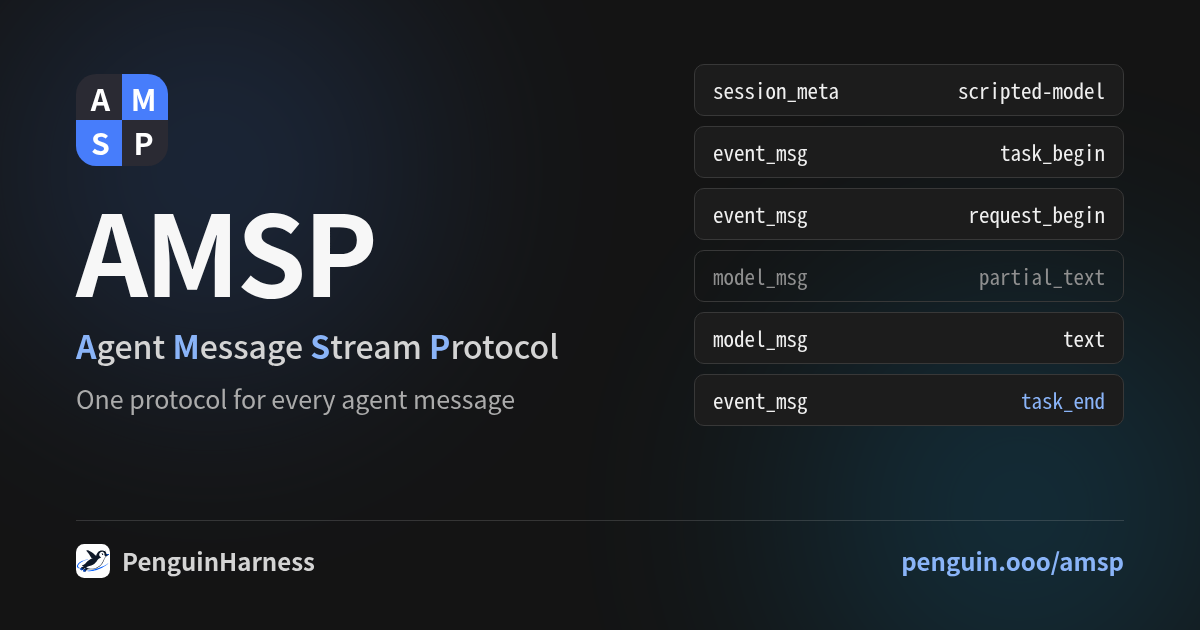
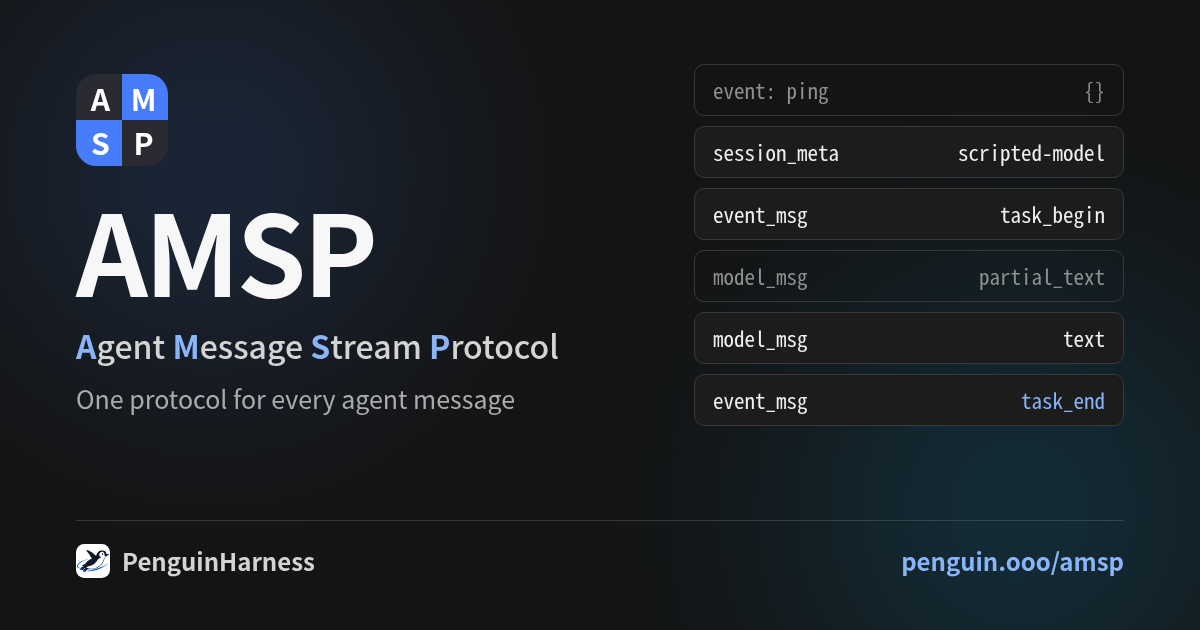
fix(landing): the AMSP stream list keeps its preview wide; streams open with ping
- The stream pane's kind column fits every kind but the longest; partial_tool_call_output and the
  abort path run on with their preview and wrap under the preview column, so a row takes two
  lines at most and most take one.
- The protocol's final rule: a run stream opens with event: ping, a new Session is named by its
  session_meta (the stream's first record), a continued one by the session_id the caller sent.
  The demo, the response excerpt, the vocabulary's ping and session_meta rows, the curl note and
  the share card follow it.

diff --git a/packages/landing/src/components/stream-player.tsx b/packages/landing/src/components/stream-player.tsx
@@ -2,8 +2,8 @@
  * The AMSP player: a scripted run replayed step by step, the way mmsp.penguin.ooo replays a model
  * call. Tabs pick the run (a Session's first request, a follow-up that continues it, a follow-up the
  * caller interrupts); the input block shows the call that starts it; the left pane lists the stream
- * as it arrives — the records (the ones the Trace stores on a faint ground), the caller's abort
- * beside the stream, `[DONE]`; the right pane is the run assembled from the records, under the
+ * as it arrives — the opening `ping`, the records (the ones the Trace stores on a faint ground),
+ * the caller's abort beside the stream, `[DONE]`; the right pane is the run assembled from the records, under the
  * agent the client names; the strip under both reads the run's outcome from them once `[DONE]`
  * arrives.
  *
@@ -16,7 +16,7 @@
  * replay. Sized so the whole player fits one screen beside the hero's copy at 1280 × 800.
  */
 import { useEffect, useId, useLayoutEffect, useMemo, useRef, useState } from "react";
-import type { KeyboardEvent, ReactNode } from "react";
+import type { CSSProperties, KeyboardEvent, ReactNode } from "react";
 import { highlightSiteCode, SiteCodeBlock, SitePill } from "@prismshadow/penguin-ui/site";
 import { S } from "../lib/strings";
 import { SCENARIOS } from "../lib/amsp-demo";
@@ -231,6 +231,16 @@ export function StreamPlayer() {
 }
 
 /**
+ * The kind column fits every kind but the longest (`partial_tool_call_output`, and the caller's
+ * abort path); those run on into the preview's column, their preview following on the same line and
+ * wrapping under the preview column. So the preview keeps the rest of the width and a row takes two
+ * lines at most.
+ */
+const KIND_CH = "partial_tool_call".length;
+/** The kind column and the gap after it: how far a long kind's continuation lines hang. */
+const HANG = "calc(var(--kind) + 0.5rem)";
+
+/**
  * One row of the stream: a record (on a faint ground when the Trace stores it), a control frame, the
  * caller's request beside the stream, or the closing `[DONE]` under a rule.
  */
@@ -242,11 +252,13 @@ function StreamRow({ line }: { line: StepLine }) {
       : line.stored
         ? "bg-white text-gray-900 dark:bg-gray-950 dark:text-gray-100"
         : "text-gray-500 dark:text-gray-400";
+  const long = line.name.length > KIND_CH;
   return (
     <li
-      className={`grid grid-cols-[24ch_minmax(0,1fr)] gap-x-2 rounded-sm px-2 sm:grid-cols-[10ch_24ch_minmax(0,1fr)] ${tone}`}
+      style={{ "--kind": `${KIND_CH}ch` } as CSSProperties}
+      className={`grid grid-cols-[var(--kind)_minmax(0,1fr)] gap-x-2 rounded-sm px-2 sm:grid-cols-[9ch_var(--kind)_minmax(0,1fr)] ${tone}`}
     >
-      {/* A record with no payload type (session_meta) lets its envelope run into the name's column. */}
+      {/* A record with no payload type (session_meta) lets its envelope run into the kind's column. */}
       <span
         className={`hidden text-[11px] text-gray-400 sm:block dark:text-gray-500 ${
           line.name ? "" : "sm:col-span-2"
@@ -254,8 +266,16 @@ function StreamRow({ line }: { line: StepLine }) {
       >
         {line.head}
       </span>
-      {line.name ? <span>{line.name}</span> : <span className="sm:hidden">{line.head}</span>}
-      <span className="[overflow-wrap:anywhere]">
+      {line.name ? (
+        !long && <span>{line.name}</span>
+      ) : (
+        <span className="sm:hidden">{line.head}</span>
+      )}
+      <span
+        className={`[overflow-wrap:anywhere] ${long ? "col-span-2" : ""}`}
+        style={long ? { paddingLeft: HANG, textIndent: `calc(-1 * ${HANG})` } : undefined}
+      >
+        {long && <>{line.name} </>}
         {line.kind === "request" ? (
           <span className="font-sans">{P.besideStream}</span>
         ) : (

diff --git a/packages/landing/test/amsp-demo.test.ts b/packages/landing/test/amsp-demo.test.ts
@@ -3,10 +3,10 @@
  * is what stops an edit (or the spec moving under them) from putting a stream on the page that no
  * server would send.
  *
- * - Given any run, it ends with `[DONE]` and its clock never runs backwards.
- * - Given the Session's first message, the stream opens with `session_meta` naming the new Session,
- *   then `task_begin`, then the echoed input; given a later message, it opens with `task_begin` and
- *   no `session_meta` comes.
+ * - Given any run, it opens with `ping`, ends with `[DONE]`, and its clock never runs backwards.
+ * - Given the Session's first message, its first record is `session_meta` naming the new Session,
+ *   then `task_begin`, then the echoed input; given a later message, its first record is
+ *   `task_begin` and no `session_meta` comes.
  * - Given any run, `task_begin` and `task_end` enclose its records and each `request_begin` is
  *   closed by a `request_end` before the next one opens.
  * - Given a streamed message, its fragments go start → delta* → stop before its complete record,
@@ -42,18 +42,19 @@ describe.each(SCENARIOS.map((scenario) => [scenario.id, scenario] as const))(
     const kinds = sequence(steps);
     const records = recordsOf(steps);
 
-    it("ends with [DONE], and its clock never runs backwards", () => {
+    it("opens with ping, ends with [DONE], and its clock never runs backwards", () => {
+      expect(kinds[0]).toBe("event: ping");
       expect(kinds.at(-1)).toBe("[DONE]");
       const times = records.map((record) => Date.parse(record.timestamp));
       expect(times.every((time, i) => i === 0 || time >= times[i - 1]!)).toBe(true);
     });
 
-    it("opens with session_meta only on the Session's first message, then task_begin and the input", () => {
+    it("starts at session_meta only on the Session's first message, then task_begin and the input", () => {
       if (scenario.continues) {
         expect(kinds).not.toContain("session_meta");
-        expect(kinds.slice(0, 2)).toEqual(["task_begin", "text"]);
+        expect(kinds.slice(1, 3)).toEqual(["task_begin", "text"]);
       } else {
-        expect(kinds.slice(0, 3)).toEqual(["session_meta", "task_begin", "text"]);
+        expect(kinds.slice(1, 4)).toEqual(["session_meta", "task_begin", "text"]);
         expect(records[0]).toMatchObject({
           payload: { session_id: expect.stringMatching(/^session-/) },
         });

diff --git a/packages/landing/src/lib/amsp-demo.ts b/packages/landing/src/lib/amsp-demo.ts
@@ -3,9 +3,9 @@
  * model was called). The records, their order and their fields follow PRFC-0021 and the engine as
  * it emits them:
  *
- * - on the Session's first message the stream opens with `session_meta`, which carries the new
- *   Session's id, then `task_begin`, then the echoed input; later messages, whose Session id the
- *   caller passed, open with `task_begin`;
+ * - every stream opens with the `ping` control frame; on the Session's first message the first
+ *   record is `session_meta`, whose `session_id` names the new Session, then `task_begin`, then the
+ *   echoed input; a later message, on the `session_id` its request sent, starts at `task_begin`;
  * - a Request pair brackets the model's output; a tool runs while its Request is still open and its
  *   output completes after `request_end`;
  * - fragments stream `start → delta → stop`, then the complete message follows;
@@ -120,6 +120,9 @@ const DATE_ARGUMENTS = '{"cmd":"date"}';
 const REQUEST_1 = counts(0, 2816, 58, 3004);
 const REQUEST_2 = counts(2816, 162, 31, 3021);
 const REQUEST_3 = counts(2978, 52, 18, 3057);
+
+/** A run stream's first line: the heartbeat, sent at once. */
+const ping: Script = [0, { control: { kind: "ping" } }];
 
 /** On a Session's first message: the context it opened. */
 const sessionMeta = (sessionId: string): Script => [
@@ -286,6 +289,7 @@ const outputRest = (clock: string): Script[] => [
  * clock in a second Request and answers.
  */
 const FIRST_RUN = timed("2026-10-21T09:41:07.000Z", EPOCH, [
+  ping,
   sessionMeta(SESSION),
   ...taskOpening("What time is it now?"),
   [8, record({ type: "request_begin", thinking_level: "medium" })],
@@ -318,6 +322,7 @@ const CONTINUE_RUN = timed(
   "2026-10-21T09:41:15.000Z",
   EPOCH,
   [
+    ping,
     ...taskOpening("Now say it in French."),
     [8, record({ type: "request_begin", thinking_level: "medium" })],
     ...textSteps(574, ["Il est 9 h 41 UTC,", " le mercredi 21 octobre 2026."]),
@@ -350,6 +355,7 @@ const INTERRUPT_RUN = timed(
   "2026-10-21T09:41:30.000Z",
   EPOCH,
   [
+    ping,
     ...taskOpening("Explain clocks in depth."),
     [8, record({ type: "request_begin", thinking_level: "medium" })],
     ...replyPieces(600, HISTORY),

diff --git a/packages/landing/src/lib/strings.ts b/packages/landing/src/lib/strings.ts
@@ -511,7 +511,7 @@ penguin run --message "分析 data.csv，输出季度销售额"`,
       live: "仅实时",
       firstMessage: "仅随首条消息上流",
       meaning: {
-        meta: "一个模型上下文开启：模型、系统提示词、Workspace 和来源。Session 的首条消息以它开启运行流，其中的 session_id 供之后的请求延续同一段上下文；之后的消息不再重复它。",
+        meta: "一个模型上下文开启：模型、系统提示词、Workspace 和来源。在 Session 的首条消息里，它是流中的第一条记录，其 session_id 即新 Session 的 id；之后的消息不再重复它。",
         complete: "完整消息，模型看到或说出的原样内容，附带提供方的 fidelity 数据。",
         partial: "流式传输中的同一批消息：start、delta、stop，随后由完整消息取代。",
         engine:
@@ -522,7 +522,7 @@ penguin run --message "分析 data.csv，输出季度销售额"`,
         head: { frame: "帧", data: "数据", meaning: "含义" },
         meaning: {
           resync_required: "续传用的 Last-Event-ID 已被挤出缓冲：重读历史后继续读这条流。",
-          ping: "心跳，订阅后立即发送，此后每 20 秒一次。",
+          ping: "流一打开即发送，因此是运行流的第一行；此后每 20 秒一次。",
           done: "运行流的最后一行。",
         },
       },
@@ -540,7 +540,7 @@ penguin run --message "分析 data.csv，输出季度销售额"`,
       curl: {
         title: "用 curl 运行",
         response: "响应",
-        note: "响应就是这次运行本身：每条记录一个带 id 的事件，Session 的首条消息以 session_meta 开头，最后是 data: [DONE]。",
+        note: "响应就是这次运行本身：先是一个 ping，随后每条记录一个带 id 的事件，最后以 data: [DONE] 结束。Session 的首条消息里，第一条记录是 session_meta，其 session_id 即这个 Session 的 id；延续对话时把它作为 session_id 传回。",
         elided: "每条记录一个事件",
       },
       sdk: { title: "或者用 TypeScript" },

diff --git a/packages/landing/src/lib/strings-en.ts b/packages/landing/src/lib/strings-en.ts
@@ -505,7 +505,7 @@ penguin run --message "Analyze data.csv and summarize quarterly sales"`,
       live: "live only",
       firstMessage: "sent on a first message only",
       meaning: {
-        meta: "A model context opened: its model, system prompt, Workspace and source. It opens the stream of a Session's first message and carries the session_id a later request passes to continue; later messages do not repeat it.",
+        meta: "A model context opened: its model, system prompt, Workspace and source. On a Session's first message it is the stream's first record, and its session_id names the new Session; later messages do not repeat it.",
         complete:
           "Complete messages, exactly what the model saw or said, with the provider's fidelity data.",
         partial:
@@ -519,7 +519,7 @@ penguin run --message "Analyze data.csv and summarize quarterly sales"`,
         meaning: {
           resync_required:
             "The Last-Event-ID to resume from has left the buffer: read the history again, then keep reading the stream.",
-          ping: "The heartbeat, sent right after subscribing and every 20 seconds after.",
+          ping: "Sent as soon as a stream opens, so a run stream's first line, then every 20 seconds.",
           done: "A run stream's last line.",
         },
       },
@@ -535,7 +535,7 @@ penguin run --message "Analyze data.csv and summarize quarterly sales"`,
       curl: {
         title: "Run it with curl",
         response: "response",
-        note: "The answer is the run itself: one event with an id per record, session_meta first on a Session's first message, and data: [DONE] last.",
+        note: "The answer is the run itself: a ping opens it, then one event with an id per record, and data: [DONE] ends it. On a Session's first message the first record is session_meta, whose session_id names the Session; to continue, send that id as session_id.",
         elided: "one event per record",
       },
       sdk: { title: "Or from TypeScript" },

diff --git a/packages/landing/scripts/og-amsp.html b/packages/landing/scripts/og-amsp.html
@@ -183,9 +183,9 @@
             <p class="tagline">One protocol for every agent message</p>
           </div>
           <div class="stream">
+            <div class="row"><span>event: ping</span><span>{}</span></div>
             <div class="row stored"><span>session_meta</span><span>scripted-model</span></div>
             <div class="row stored"><span>event_msg</span><span>task_begin</span></div>
-            <div class="row stored"><span>event_msg</span><span>request_begin</span></div>
             <div class="row"><span>model_msg</span><span>partial_text</span></div>
             <div class="row stored"><span>model_msg</span><span>text</span></div>
             <div class="row stored"><span>event_msg</span><span class="closer">task_end</span></div>

diff --git a/packages/landing/test/amsp-replay.test.ts b/packages/landing/test/amsp-replay.test.ts
@@ -218,10 +218,9 @@ describe("the stream pane", () => {
       stored: false,
       preview: 'delta "Hi"',
     });
-    const ping: RunStep = { kind: "control", control: { kind: "ping" } };
     const besides = run("interrupt").filter((each) => each.kind !== "record");
-    expect(besides.map((each) => each.kind)).toEqual(["request", "done"]);
-    for (const frame of [ping, ...besides]) {
+    expect(besides.map((each) => each.kind)).toEqual(["control", "request", "done"]);
+    for (const frame of besides) {
       expect(stepLine(frame).stored).toBe(false);
     }
   });

diff --git a/packages/landing/src/sections/amsp/quickstart.tsx b/packages/landing/src/sections/amsp/quickstart.tsx
@@ -29,7 +29,7 @@ function Step({ index, title, children }: { index: number; title: string; childr
 
 export function AmspQuickstart() {
   const Q = S.amsp.quickstart;
-  const response = responseExcerpt(SCENARIOS[0]!.steps, 2, 3, Q.curl.elided);
+  const response = responseExcerpt(SCENARIOS[0]!.steps, 3, 3, Q.curl.elided);
   return (
     <Section id="quickstart" title={Q.title}>
       <ol className="mx-auto max-w-4xl space-y-12">

diff --git a/packages/landing/src/lib/amsp-vocabulary.ts b/packages/landing/src/lib/amsp-vocabulary.ts
@@ -17,7 +17,7 @@ export interface VocabularyRow {
   kinds: readonly string[];
   /** Stored in the Trace on disk (a durable record), or live on the stream only. */
   stored: boolean;
-  /** Sent only on a Session's first message, first on its stream; not repeated on later ones. */
+  /** Sent only on a Session's first message, as its stream's first record; not repeated later. */
   firstMessageOnly?: true;
 }
 

diff --git a/changelog/unreleased/2026-10-22-amsp-landing-page.md b/changelog/unreleased/2026-10-22-amsp-landing-page.md
@@ -12,7 +12,7 @@ penguin.ooo/amsp presents AMSP, a PenguinHarness agent's Session stream, on one 
 ## Details
 
 - **Mark.** An AMSP mark drawn as MMSP's sibling: the same four tiles, colours and letter weight, with the blue on the other diagonal. It heads the hero and the share card.
-- **Player.** Three scripted runs on one Session in tabs: the first request, a follow-up that continues it, and a follow-up the caller interrupts. The left pane lists the stream as it arrives: the records (the ones the Trace stores on a faint ground), the caller's abort request, and `[DONE]`. The right pane assembles the run: the agent and, on a first request, the model; the messages under their Requests, with each Request's thinking level. A strip under both reads the result from the records, with the Request count, elapsed time and usage bars. Replay follows the runs' own timestamps, runs only while the player is on screen, pauses on request, and shows each run finished under reduced motion.
+- **Player.** Three scripted runs on one Session in tabs: the first request, a follow-up that continues it, and a follow-up the caller interrupts. The left pane lists the stream as it arrives: the opening `ping`, the records (the ones the Trace stores on a faint ground), the caller's abort request, and `[DONE]`. The right pane assembles the run: the agent and, on a first request, the model; the messages under their Requests, with each Request's thinking level. A strip under both reads the result from the records, with the Request count, elapsed time and usage bars. Replay follows the runs' own timestamps, runs only while the player is on screen, pauses on request, and shows each run finished under reduced motion.
 - **Sections.** A bar chart of the message structure on one time axis, longest first: the Task (`task_begin … task_end`), its Requests (`request_begin … request_end`) and their messages (`partial_*` fragments, then the complete record), drawn from the first-request run, with a tool's output completing after its `request_end`; the table of records grouped by envelope `type`, `session_meta` marked as sent on a first message only, and the control frames (`resync_required`, `ping`, `data: [DONE]`); curl and TypeScript quickstarts against `/api/amsp/v1` and `@prismshadow/amsp` (`stream()` for the records, `run()` for the result); links to the reference, AMSP records, the Agent API guide, npm and the source.
 - **One place per kind of content.** The vocabulary and the control frames are in `src/lib/amsp-vocabulary.ts`, the code samples in `src/lib/amsp-quickstart.ts`, and the scripted runs in `src/lib/amsp-demo.ts`, typed on the page's own protocol types until the SDK ships them.
 - **Site.** "AMSP" in the header between Download and Docs and in the footer's Product column. The page loads as its own chunk. Its tab title and description follow the reader's language, and its static shell carries its own title, description and share card (`public/og-amsp.png`, rendered by `node scripts/capture-og-cover.mjs amsp`), so links to it unfurl under its own name. `/amsp/` is in the sitemap.

diff --git a/changelog/unreleased/2026-10-22-amsp-landing-page.zh.md b/changelog/unreleased/2026-10-22-amsp-landing-page.zh.md
@@ -12,7 +12,7 @@ penguin.ooo/amsp 仿照 mmsp.penguin.ooo，用一个页面介绍 AMSP，即 Peng
 ## 细节
 
 - **标志。** AMSP 标志按 MMSP 的同一套构造绘制：同样的四块方格、颜色与字重，蓝色落在另一条对角线上。它出现在首屏与分享卡片上。
-- **播放器。** 三个标签页重放同一个 Session 上的三次脚本运行：首次请求、继续对话，以及调用方中途打断的一次追问。左栏按到达顺序列出流：各条记录（写入 Trace 的带浅色底）、调用方的中止请求与 `[DONE]`；右栏把运行拼装起来：Agent 与（首次请求时的）模型、归在各 Request 下的消息及该 Request 的思考等级。两栏下方的一条显示由记录读出的结果、Request 数、耗时和用量条形图。重放按运行自身的时间戳推进，只在播放器可见时播放，可以暂停；减少动态效果时直接显示完成状态。
+- **播放器。** 三个标签页重放同一个 Session 上的三次脚本运行：首次请求、继续对话，以及调用方中途打断的一次追问。左栏按到达顺序列出流：开头的 `ping`、各条记录（写入 Trace 的带浅色底）、调用方的中止请求与 `[DONE]`；右栏把运行拼装起来：Agent 与（首次请求时的）模型、归在各 Request 下的消息及该 Request 的思考等级。两栏下方的一条显示由记录读出的结果、Request 数、耗时和用量条形图。重放按运行自身的时间戳推进，只在播放器可见时播放，可以暂停；减少动态效果时直接显示完成状态。
 - **各节内容。** 一张条形图依据首次请求示例，在同一条时间轴上按时长从长到短画出消息结构：Task（`task_begin … task_end`）、其中的 Request（`request_begin … request_end`）和消息（先是 `partial_*` 片段，再是完整记录），并显示工具输出在 `request_end` 之后才完整；按信封 `type` 分组的记录表，标明 `session_meta` 只随首条消息上流，另列控制帧（`resync_required`、`ping`、`data: [DONE]`）；基于 `/api/amsp/v1` 与 `@prismshadow/amsp`（`stream()` 读取记录，`run()` 获取结果）的 curl 和 TypeScript 快速上手；协议参考、AMSP 记录、Agent API 使用指南、npm 和源码的链接。
 - **每类内容只在一处。** 记录表与控制帧在 `src/lib/amsp-vocabulary.ts`，代码示例在 `src/lib/amsp-quickstart.ts`，脚本运行在 `src/lib/amsp-demo.ts`；在 SDK 提供这些类型之前，它们基于页面自带的协议类型。
 - **站点。** 顶栏在「下载」和「文档」之间加入「AMSP」，页脚「产品」一栏也加入该链接。页面单独打包、按需加载；标签页标题和描述随读者语言切换，静态外壳带有页面自己的标题、描述和分享卡片（`public/og-amsp.png`，由 `node scripts/capture-og-cover.mjs amsp` 生成），分享链接时显示页面自己的名称。`/amsp/` 已加入站点地图。
